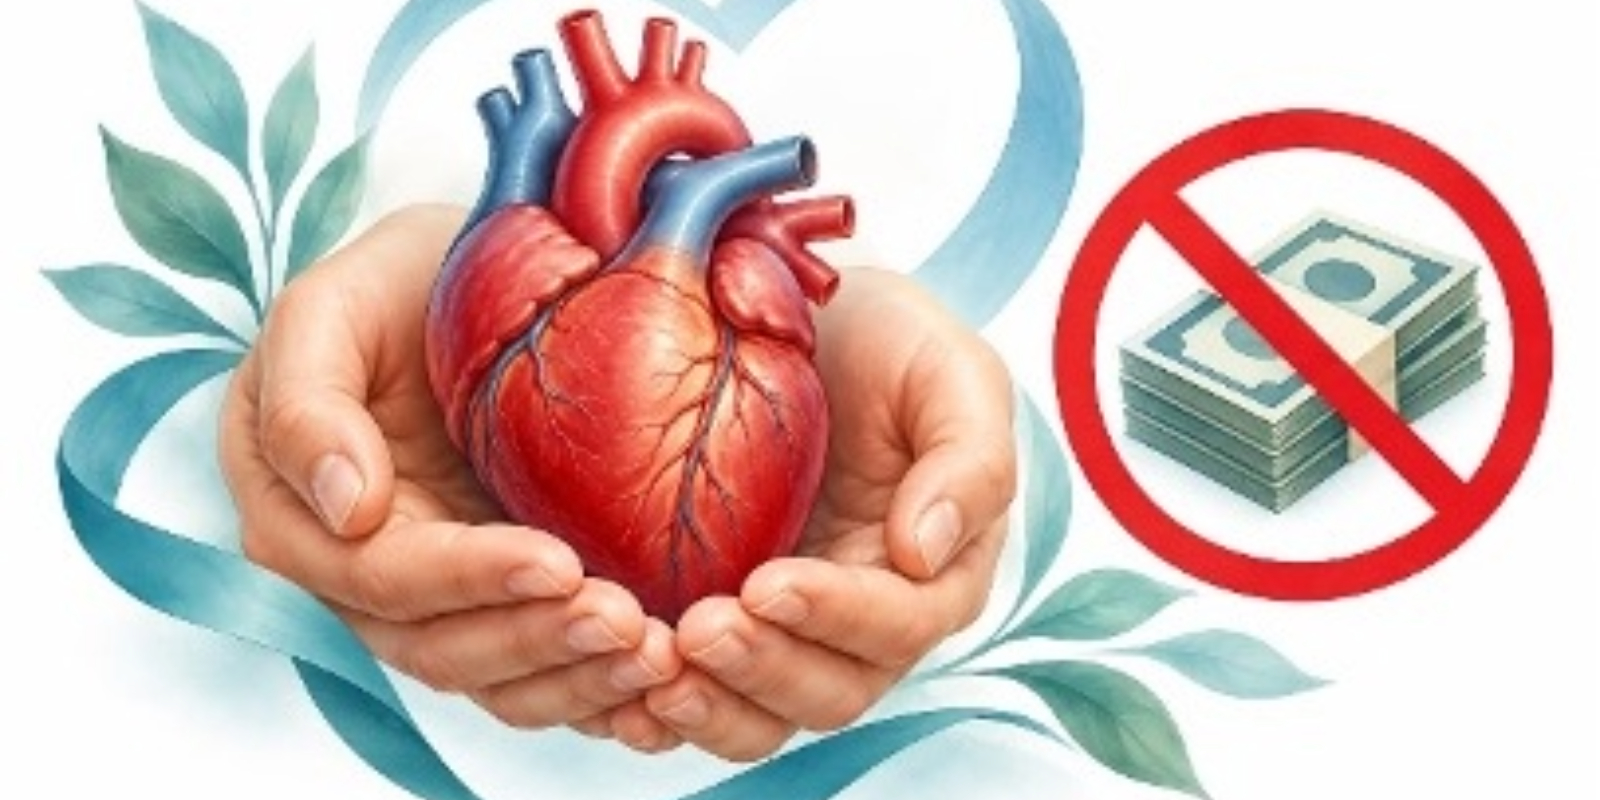
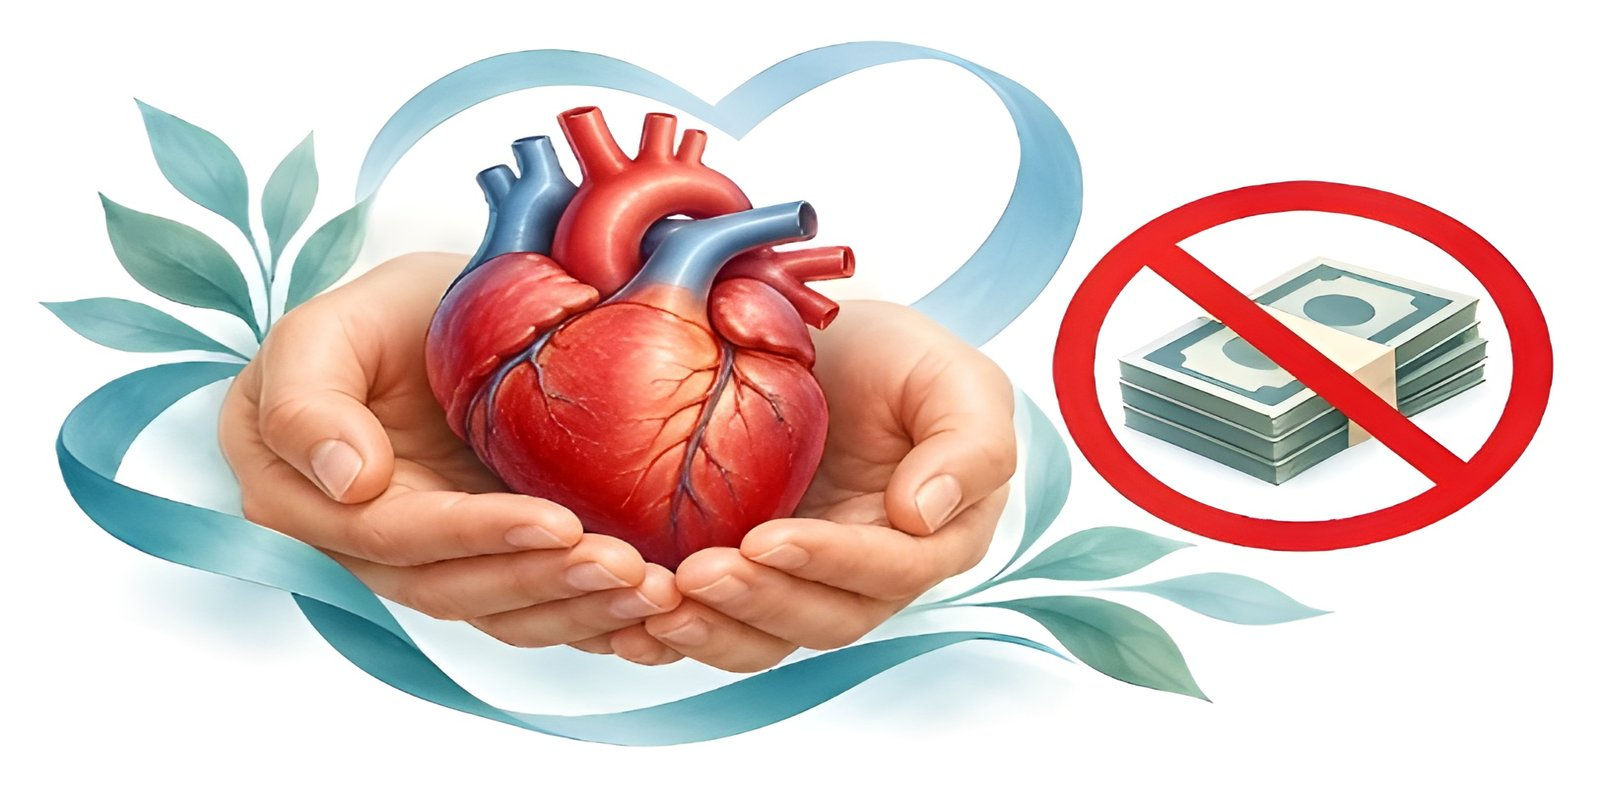
add more post and fix image resolution

diff --git a/src/lib/posts.ts b/src/lib/posts.ts
@@ -3,6 +3,37 @@ import { getCollection, type CollectionEntry } from "astro:content"
 export type Post = CollectionEntry<"posts">
 
 /**
+ * Covers render in a 45rem (720px) slot. A source narrower than this is
+ * stretched by the browser even on a 1x display, and a 2x display renders it
+ * at roughly 2.35x its real size, which reads as blur. Astro caps the
+ * generated srcset at the source width instead of upscaling, so a small cover
+ * yields a single-entry srcset with nothing better to pick.
+ */
+const MIN_COVER_WIDTH = 1440
+
+const warnedCovers = new Set<string>()
+
+/**
+ * Warns about covers too small to stay sharp. Warns rather than fails: an
+ * undersized cover is a content problem to fix, not a reason to block a
+ * deploy. Deduplicated because getPosts() runs once per page.
+ */
+function warnOnLowResCovers(posts: Post[]) {
+  for (const post of posts) {
+    const { cover } = post.data
+    if (!cover || cover.width >= MIN_COVER_WIDTH) continue
+    if (warnedCovers.has(post.id)) continue
+
+    warnedCovers.add(post.id)
+    console.warn(
+      `[covers] "${post.id}" has a ${cover.width}px cover, below the ` +
+        `${MIN_COVER_WIDTH}px needed to stay sharp in the 45rem cover slot. ` +
+        `Re-export the source at ${MIN_COVER_WIDTH}px or wider, or it will look blurry.`
+    )
+  }
+}
+
+/**
  * All posts, newest first. Drafts are included in dev so they can be
  * previewed, but production builds always exclude them.
  */
@@ -11,6 +42,8 @@ export async function getPosts() {
     "posts",
     ({ data }) => import.meta.env.DEV || !data.draft
   )
+
+  warnOnLowResCovers(posts)
 
   return posts.sort(
     (a, b) => b.data.pubDate.valueOf() - a.data.pubDate.valueOf()

diff --git a/src/content/posts/the-old-man-and-the-sea.md b/src/content/posts/the-old-man-and-the-sea.md
@@ -1,0 +1,117 @@
+---
+title: "Book Report: The Old Man and The Sea"
+description: "A book report on Hemingway's 1952 novella, covering Santiago's struggle and whether the ending lands."
+pubDate: 2025-12-01
+tags: ["English", "Writing", "Book Report"]
+cover: ../../assets/man-and-sea.png
+coverAlt: "An old fisherman alone in a small skiff on a wide, open sea"
+---
+
+# The Old Man and the Sea
+
+## Book Information
+
+|               |                             |
+| ------------- | --------------------------- |
+| **Title**     | *The Old Man and the Sea*   |
+| **Author**    | Ernest Hemingway            |
+| **Genre**     | Literary Fiction, Adventure |
+| **Published** | 1952                        |
+
+## 1. Introduction
+
+**Is it really worth the struggle?**
+
+Ernest Hemingway explores the nobility of perseverance and success in his prize-winning story, *The Old Man and the Sea* (1952), where an aging Cuban fisherman struggles against a giant fish.
+
+Hemingway lets us see through the obstinate endurance of Santiago how strong the human spirit can be. Despite his age, Santiago's determination to succeed portrays perfectly that there is no obstacle or enemy that can do us harm when our desire is greater.
+
+**Commitment, honor, and resistance** are the main themes that Hemingway conveys in this powerful yet concise narrative.
+
+---
+
+## 2. Setting and Context
+
+The narrative is set over two different scenarios, one longer than the other. The duality of the setting can be portrayed perfectly as two different places are evident.
+
+First, we have the safety of Santiago's house on the coast of Havana, which serves as a starting point for this story. Even though it was safe and cozy, Santiago knew the duty of a fisherman awaited.
+
+On the other hand, the second scenario is where most of the story is set: over a few days and nights in the Gulf Stream off the coast of Havana. Surrounded by water, the sea shows how big Santiago's personal quest is. Moreover, as he goes further into the sea, Santiago reflects on how small he has become.
+
+> “It was getting late in the afternoon and he saw nothing but the sea and the sky.” (p. 32)
+
+This state of solitude in which Santiago is found makes us ponder nature's magnificence and human loneliness.
+
+---
+
+## 3. Character Analysis
+
+### Santiago
+
+The main character of this story is **Santiago**, a brave man who refuses to give up after:
+
+> “He had gone eighty-four days now without catching a fish.” (p. 2)
+
+Santiago's **determination and resilience** stand out from the early stages of the story, as he is determined to catch a fish after a long streak of bad luck.
+
+Nevertheless, as Santiago sails out to sea, convinced that he will catch a fish, this reveals **his pride and humility**. He acknowledges his age and condition but is still confident in his fisherman skills, which unveils his pride and humility—other core traits that characterize Santiago.
+
+Likewise, he deeply conveys a **connection to nature** that clearly stands out in some moments of the story, such as his fight against the marlin. He praises the sea by attributing a gender, a name, and human-like attributes to it.
+
+Although Santiago's personality traits are exposed in the early stages of the story, we can deep dive into his **deeper thoughts** and his unique **philosophy** about life through his loneliness.
+
+Overall, Santiago's philosophy revolves around struggle. He perfectly represents the strength of a person who keeps fighting even when the world seems against him.
+
+### Manolin
+
+On the other hand, **Manolin (the boy)** is a character worth mentioning despite his infrequent appearance.
+
+Santiago and Manolin form a perfect synergy, as one complements the other. Santiago is old and wise from years of experience, while Manolin is young and eager to learn.
+
+Personally, this duality soothed my nerves during the moments when Santiago's condition seemed questionable because the boy's **companionship** brings warmth and emotional support to his life.
+
+His **loyalty and admiration** serve as a foundation for Santiago's strength and resilience. Even when others doubt the old man, Manolin remains by his side.
+
+Early in the novel, it is revealed that:
+
+> “The boy's parents had told him that the old man was now definitely and finally salao.” (p. 2)
+
+It is also stated that:
+
+> “Many of the fishermen made fun of the old man, but he was not angry.” (p. 3)
+
+These moments highlight how, despite social pressure, Manolin continues to believe in Santiago, showing the depth of his loyalty.
+
+### The Marlin
+
+Lastly, although the marlin is not human, it is extremely important to mention in this section because it represents a major point of inflection in the story.
+
+The **marlin** is not only a fish; it is a powerful symbol of challenge. It also represents the ultimate test of Santiago's fisherman skills and his human spirit, as both are strong and noble opponents.
+
+---
+
+## 4. Critical Evaluation
+
+The novel explores universal themes such as **struggle, pride, resilience, and defeat**.
+
+However, it remained unclear to me whether Santiago's defeat was truly a lost match or not. I personally found it too vague, as there was no profound symbolism in it. As a reader, I was expecting a jaw-dropping ending considering the climax of the story, which was full of tension and uncertainty. However, the author played it safe and went with a realistic yet emotional ending.
+
+I can categorize the ending from two different points of view: **a masterpiece of realism or an unsatisfying conclusion**. I cannot decide which one I would go with, but I can say I was not satisfied whatsoever.
+
+On the other hand, one aspect that I liked the most about the story was how the author artistically paints the different scenarios in the readers' minds through his clear, concise, and poetic descriptions. These descriptions create a calm but intense atmosphere, which is perfect for readers who like to visualize the different scenes as the author intended.
+
+When it comes to the plot, the author did not cross the line of reality, giving the story a sense of simplicity. This helps the core themes of the plot shine.
+
+---
+
+## 5. Conclusion
+
+In conclusion, the story left me reflecting on some important topics, one of them being the strength needed to face life's challenges.
+
+I found Santiago to be a very remarkable character because of his development ever since the early stages of the story. Moreover, at a general level, this story has a powerful message that quite amazed me.
+
+If I had to define this story with only two words, I would definitely go with **perseverance and success**. These can be opposite concepts, but they complement one another perfectly.
+
+Moreover, another takeaway is the bond between the boy and the old man, which I can interpret as a two-way relationship that ensures the continuation of Santiago's philosophy and values through Manolin. These values will live on, and hence Santiago's spirit will live forevermore.
+
+Lastly, I would say that this story is an invitation to whoever reads it to keep sailing their boat and fighting against the sharks—or whatever difficulties may arise—in the sea of life.

diff --git a/src/content/posts/cost-of-living.md b/src/content/posts/cost-of-living.md
@@ -1,0 +1,19 @@
+---
+title: "The Cost of Living"
+description: "An analysis of W.W. Jacobs's The Monkey's Paw, and the choices that lead the White family to ruin."
+pubDate: 2025-09-20
+tags: ["English", "Writing", "Analysis"]
+cover: ../../assets/monkey-paw.png
+coverAlt: "A dried, shriveled monkey's paw with a claw-like hand"
+---
+
+Life is full of decisions, some can be hard, others don't. No matter the age, decisions are part of our journey in this life. From kids to elderly, everyone at one point in their life has to make a decision. But here's the catch, the problem is not making the judgement itself, rather what circumstances lead us to face those difficult moments when life is expecting us to choose. It's up to us whether we go all in or dismiss a choice. The purpose of this essay is to point out some takeaways to avoid such difficult conclusions like the Whites’, or what to take into consideration when deciding. Whether we have a strong desire to get something we crave; a feeling is interfering in our decision-making; or a hard choice is holding us back.
+ 
+In "The Monkey's Paw,” Mr. White's first wish was money. At first glance, it seems to be a harmless wish. However, it unleashes a series of unfortunate events where his decision-making is tested. As a consequence of his greed for money, his wish is granted, though taking the life of his son in exchange. Even though Mr. White's reason to abruptly ask for money is understandable, as he just wanted to help his family out, greed led him to get it in an unexpected way. Likewise, humans are not too far from Mr. White. Money is an important part of our life nowadays. In consequence, people tend to bias their decisions guided by greed, when there's money in between. Greed clouds judgement, prioritizing one's benefit but potentially harming others in the long run.
+ 
+Humans are emotional beings, so it's normal that people tend to get emotional in difficult scenarios, especially when there's money in between. Nonetheless, involving emotions where we should not can result in undesirable results, making a decision for instance. In "The Monkey's Paw,” Mr. White's wife is the perfect example for this matter. After losing her son and realizing that two wishes are left, she came up with the idea of getting her son back from death. In contrast to her husband who is afraid as a result of having witnessed how things turned out upon his last wish. Overall, decisions driven by emotions almost always ignore reality. While emotions are highly unstable and situational; facts remain constant and reliable.
+ 
+When things take a wrong turn, hard choices show up, and that's the moment where sitting down and cold thinking is necessary. The truth is that difficult choices usually require sacrifice. After having pleased his wife, Mr. White, doubtfully,  faces a really difficult choice; whether to spend his last wish to get rid of the thing that is knocking at his door. Mr. White brings to light the hard truth, some choices are tough, yet he sighed with relief at the very end knowing he had taken the best choice. Difficult decisions indeed could be challenging, but undoubtedly they push growth, responsibility and thus bring long-term stability.
+
+In “The Monkey’s Paw,” Jacobs explores how curiosity and greed can lead to tragedy. The Whites, guide for their unfortunate economical condition, take a series of wrongdoings leading them to a tragic ending, the cost of careless decisions can have a significant impact upon one's life. Therefore, stories like Jacobs' could serve as a warning. Due to the unpredictable and unstable nature of life, thoughtful decision-making must be a thing we pay attention to. Moreover, while some circumstances are out of our hands, before deciding: stop, cold think, and consider the possible outcomes and impact of our next decision, that can result in a turning point in our life, granting us the necessary wisdom and thus, helping us to navigate wisely throughout life.
+San Francisco de Macorís, 2025

diff --git a/src/content/posts/the-planet.md b/src/content/posts/the-planet.md
@@ -1,0 +1,18 @@
+---
+title: "The Planet"
+description: "What makes Earth the only habitable planet, and where human intelligence fits into it."
+pubDate: 2025-05-09
+tags: ["English", "Writing", "Composition"]
+cover: ../../assets/the-planet.png
+coverAlt: "The planet Earth seen from space"
+---
+
+When it comes to the solar system, the planet Earth shines not because of its size, but for being the only one that has life. Among all the other planets, the Earth has a particularity: it has water. Also, it is the perfect place in the solar system, not so close but not so far from the sun. Some planets are hostile and not worth exploring, though, but this is not the case for the Earth. Clearly, all that has been stated so far could not be possible without the atmosphere.
+
+To talk about the planet, firstly, we must talk about nature. When people talk about nature, they tend to only think about trees and plants. Nonetheless, nature is more than that. Nature can be profiled as the variety of complex ecosystems coexisting altogether holding life on the planet. Throughout the history of the human being, many things have changed, some for good, and others have negatively impacted human existence. However, there is one thing that has not changed whatsoever, and that is nature. To sum up, the planet — Earth — is the only one in this solar system and this galaxy, so far, that contains life.
+
+On the other hand, animals, as humans, play a significant role in the well-being of the planet. Animals have made it to live a long time on this planet. This is proof that there is no need for humans to mess up with them. No matter how small or how tall they can get to be, at the end of the day, they are also involved in the balance of life. From bugs to aquatic animals, all of them have a specific task in the biodiversity of the planet. Moreover, its main role revolves around keeping a balance in the planet’s ecosystems. Based on the research that has been stated and many more, animals are not only a key piece but also in keeping the balance of the planet.
+
+Even though different forms of life across the planet have different functions, like animals and plants, when it comes to complexity, humans are at the top of the pyramid of evolution. Many years of evolution melted down into one single form, giving humans the title of the final form of life, so far. The environment has been hostile toward humans somehow. Nevertheless, they have managed to survive at all costs. The amount of time humans have surpassed all over the other pieces. Moreover, the attribute of intelligence has granted humans a significant advantage to respond to external stimuli, and thus increasing the life span and survival rate enormously, consequently overshadowing the weaknesses in comparison to other species.
+
+In conclusion, human intelligence has played such an important role as the ultimate characteristic granting humans an unbreakable spirit of tolerance and resilience toward external harmful stimuli. In terms of mortality and life span, humans have also outperformed other species, whereas some animals have extinguished. On the contrary, the animal realm has also been able to survive for quite a long time despite the hostility of the environment. Last but not least, nature has also made it in terms of existence. Likewise, compared to humans or animals, nature stands out as the ultimate and most important characteristic of the planet Earth. That’s what makes humans and animals establish a meeting point to be easily differentiated among all the other planets in the solar system and perhaps, the galaxy.

diff --git a/src/content/posts/sale-of-human-organs.md b/src/content/posts/sale-of-human-organs.md
@@ -1,11 +1,11 @@
 ---
 title: "The Sale of Human Organs Should Be Legalized."
-description: "In this essay, Anny explores the consequences of a very controversial practice; the sale of human organs."
+description: "Anny argues that legalizing organ sales would fuel trafficking and exploit the poor who need the money."
 pubDate: 2026-09-29
 tags: ["English Project", "Writing", "Teaching"]
 author: anny
 cover: ../../assets/human-organs.jpg
-coverAlt: "Hands holding an heart"
+coverAlt: "Two cupped hands holding a human heart"
 ---
 
 The sale of human organs is a controversial topic around the world. Although some people believe that it could save the lives of patients who need a transplant, legalizing organ sales could cause serious problems. It could increase organ trafficking and put many lives at risk. Moreover, poor people might feel pressured to sell their organs because they need money.

diff --git a/src/content/posts/social-media.md b/src/content/posts/social-media.md
@@ -1,11 +1,11 @@
 ---
 title: "Social Media Has Improved Human Communication"
-description: "In this essay, Carlos argues about the impact of social media in communication nowadays."
+description: "Carlos argues that social media weakens communication, crowding out face-to-face time and attention."
 pubDate: 2026-09-29
 tags: ["English Project", "Writing", "Teaching"]
 author: carlos
 cover: ../../assets/social-media.png
-coverAlt: "Social media"
+coverAlt: "A hand holding a smartphone showing a grid of social media app icons"
 ---
 
 Social media is an important part of modern life. It has changed the way people communicate 
